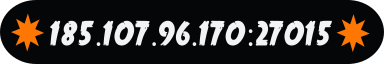
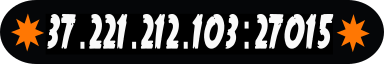
Add files via upload

Changed region(s): [[0.125, 0.2188, 0.875, 0.7812]]

diff --git a/index.html b/index.html
@@ -12,7 +12,7 @@
 	<body>
         <center>
                 <img src="banner.png"></br></br></br>
-								<a href="https://discord.gg/z8X9YDbXhc"><img src="discord.png"></a> <a href="https://www.youtube.com/@AussysTF2server"><img src="youtube.png"></a> <a href="http://afcircusqp2.site.nfoservers.com/web/"><img src="playerranks.png"></a></br></br>
+								<a href="https://discord.gg/z8X9YDbXhc"><img src="discord.png"></a> <a href="https://www.youtube.com/@AussysTF2server"><img src="youtube.png"></a> <a href="http://aussyserver.net"><img src="playerranks.png"></a></br></br>
 
 								                <div style="width: 650px;">
 								                <div style="width: 300px; display: inline-block; float: left; text-align: left;"> SERVER RULES:</b></br></br> 1. Don't Be A Jerk</br></br> 2. Don't Cheat</br></br> 3. No Regular Uber Phlogs</div>
@@ -27,7 +27,7 @@
 	  	}
 	</style>
 												<div style="width: 650px;">
-												<a href="https://www.steamserverbrowser.com/games/team-fortress-2/servers/185.107.96.170:27015"><img src="serverip.png"></a>
+												<a href="https://www.steamserverbrowser.com/games/team-fortress-2/servers/37.221.212.103:27015"><img src="serverip.png"></a>
 
 									</body>
 								</html>
